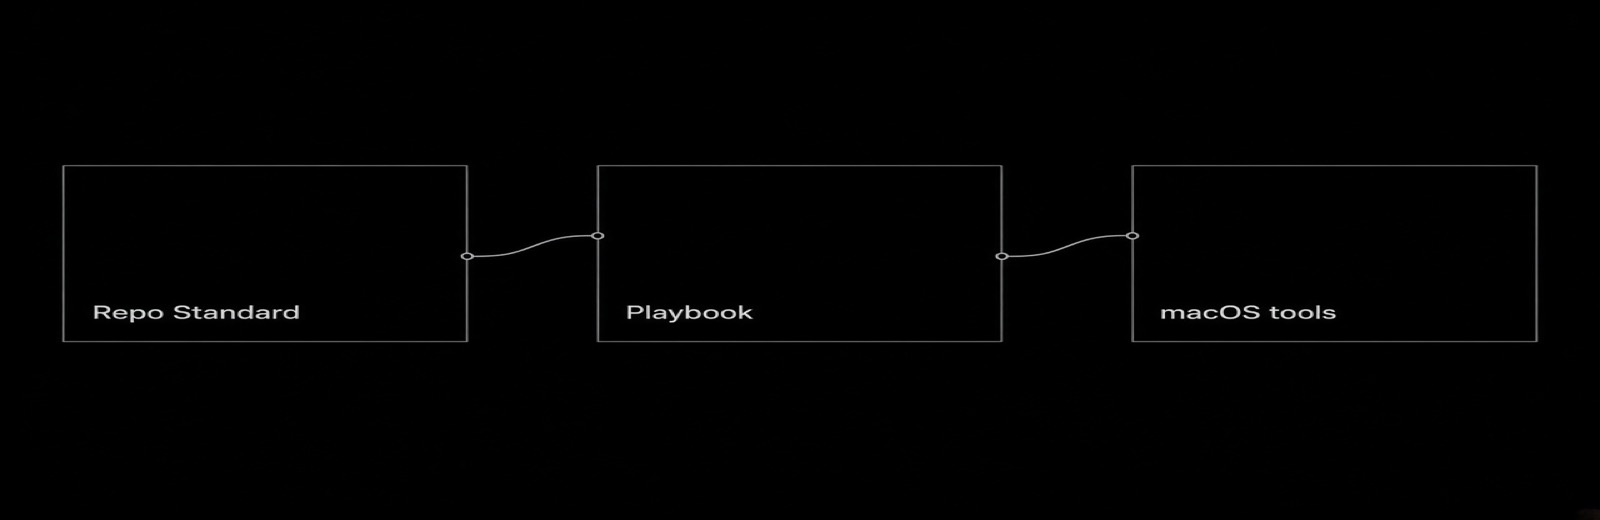
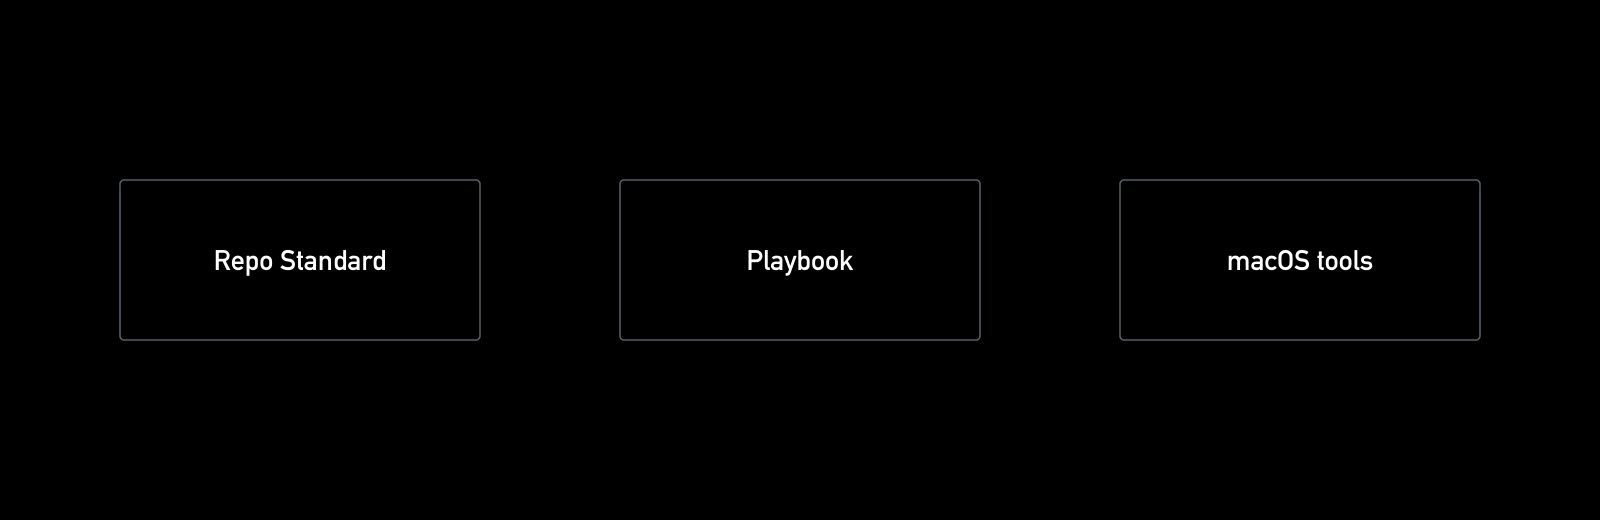
docs(readme): Direction B hero redo after Rose REJECT
Pure #000, SI facing two-arc (L #FFF / R Direction B gradient),
DIN lockup, 1600×900. Copy = Repo Standard/playbook home —
no product-app theater. Soft-freeze; awaiting Rose re-CLEAR.

diff --git a/README.md b/README.md
@@ -1,22 +1,21 @@
 <div align="center">
 
-<img src="docs/readme/hero-dark.png" alt="jev-use — repo standard · playbook · macOS tools" width="840"/>
+<img src="docs/readme/hero-dark.png" alt="jev-use — repo standard · playbook · pre-alpha" width="840"/>
 
 # jev-use
 
-**Repo Standard · playbook home · macOS tools**
+**Repo Standard · playbook home**
 
-`standing instructions for agents and humans`
+`standing instructions · not a product app`
 
 ![license](https://img.shields.io/badge/license-Apache--2.0-5b6169?labelColor=0a0a0a&style=flat-square)
 ![status](https://img.shields.io/badge/status-pre--alpha-5b6169?labelColor=0a0a0a&style=flat-square)
-![platform](https://img.shields.io/badge/platform-macOS-5b6169?labelColor=0a0a0a&style=flat-square)
 ![role](https://img.shields.io/badge/role-repo%20standard-5b6169?labelColor=0a0a0a&style=flat-square)
 
 </div>
 
-> **This is the Repo Standard and playbook home — not a shipped product app.**
-> Pre-alpha. No marketing theater. Read before you touch a Coco repo.
+> **This repository is the Repo Standard and playbook home for Coco agents and humans.**
+> It is **not** a shipped Mac product. Pre-alpha. No download. No store listing.
 
 <img src="docs/readme/local-first.png" alt="Repo Standard → Playbook → macOS tools" width="100%"/>
 
@@ -24,30 +23,28 @@
 
 | Layer | What you get |
 | --- | --- |
-| **Repo Standard** | Standing instructions every agent and human follows across Coco repos — `docs/repo-playbook.html` |
+| **Repo Standard** | Standing instructions every agent/human follows — [`docs/repo-playbook.html`](docs/repo-playbook.html) |
 | **Playbook** | How we work: PR size, evidence, gates, hooks, docs authority |
-| **macOS tools** | Local tooling that lives beside the standard (AX / voice experiments) — **pre-alpha**, not a product surface |
-
-If you came here looking for a downloadable Mac app: there isn’t one. The AX observation layer is still being ported to Rust. The working reference lives outside this tree (see `reference/`).
+| **macOS tools (pre-alpha)** | Local experiments that live *beside* the standard — AX / voice workstreams. Not a product surface. |
 
 ## Start here
 
-1. Open [`docs/repo-playbook.html`](docs/repo-playbook.html) — the Repo Standard.
-2. Read [`AGENTS.md`](AGENTS.md) before any agent edit.
-3. Read [`CONTRIBUTING.md`](CONTRIBUTING.md) if you are a person.
-4. For the AX / voice workstream only: [`docs/prd.md`](docs/prd.md) (draft, owner-gated).
+1. [`docs/repo-playbook.html`](docs/repo-playbook.html) — the Repo Standard (SoT).
+2. [`AGENTS.md`](AGENTS.md) — before any agent edit.
+3. [`CONTRIBUTING.md`](CONTRIBUTING.md) — if you are a person.
+4. AX / voice workstream only (owner-gated draft): [`docs/prd.md`](docs/prd.md).
 
 ## Layout
 
 ```
-docs/repo-playbook.html   Repo Standard (SoT for standing instructions)
-docs/                     prd, architecture, rules, design, tasks, memory
-crates/jev-ax/            macOS Accessibility port target (pre-alpha)
-crates/jev-voice/         voice hook path (pre-alpha)
+docs/repo-playbook.html   Repo Standard (SoT)
+docs/                     architecture, rules, design, tasks, memory, prd (draft)
+crates/jev-ax/            Accessibility port target — pre-alpha, not a product
+crates/jev-voice/         voice hook path — pre-alpha, not a product
 .metagpt/                 STATE.md, GATE.json, interview.md
 reference/                pointer to the working Python system
 .github/                  CI, PR template
-docs/readme/              SpaceX/dark README assets
+docs/readme/              SpaceX/dark README assets (Direction B)
 ```
 
 ## Working on this
@@ -58,7 +55,7 @@ cargo fmt --all
 cargo clippy --workspace --all-targets -- -D warnings
 ```
 
-**Every change lands as a small PR with CI green.** No direct pushes to `main`.
+**Every change is a small PR with CI green.** No direct pushes to `main`.
 
 ## Keys: bring your own
 
